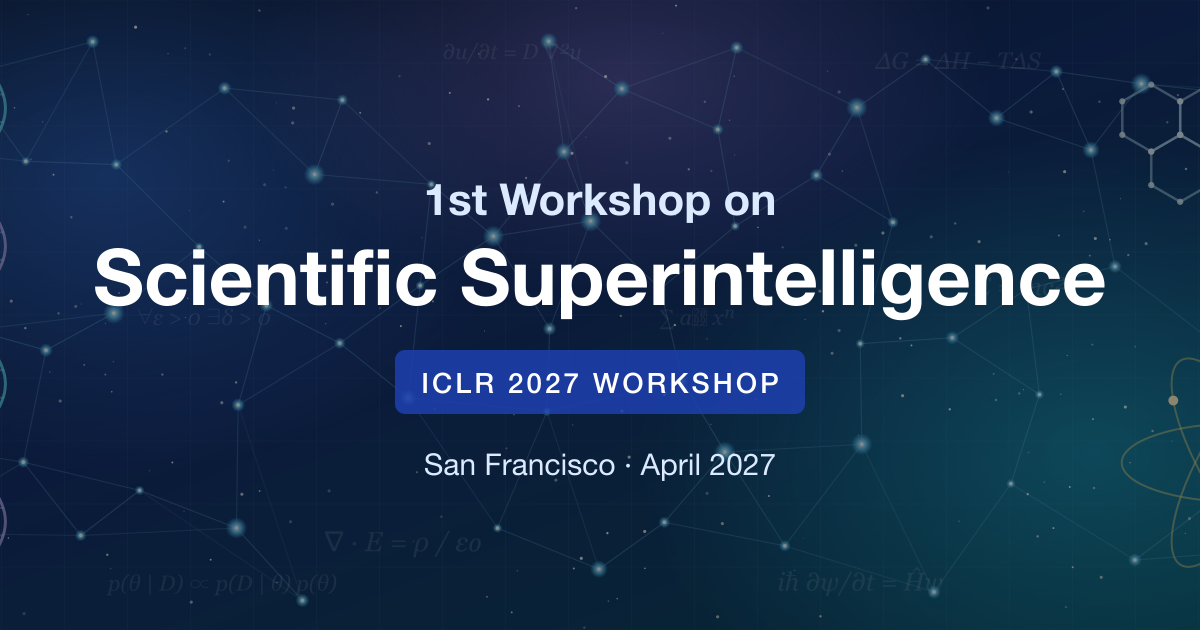
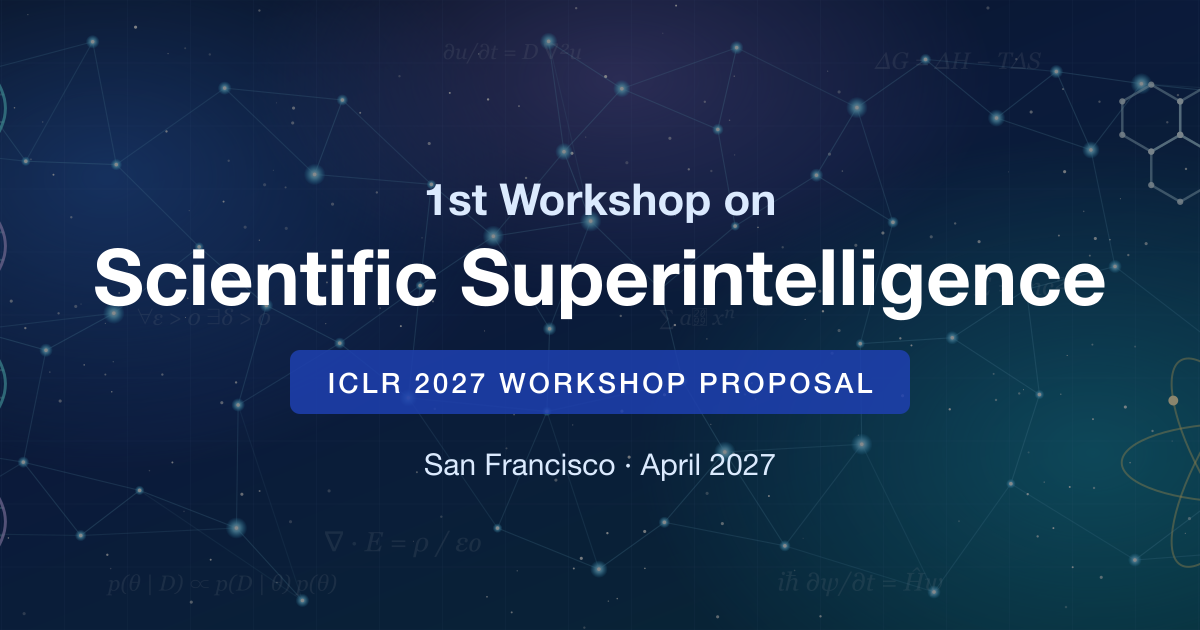
Align the site with the workshop proposal
Wording now follows the proposal draft (Oct 8, 2026):
- Hero: badge "ICLR 2027 Workshop Proposal"; tagline is the
  proposal's central question (also og:description, og image)
- CFP intro from A.1 and the audience in section 5
- Key dates from Appendix B: CFP launch Dec 7, deadline Feb 1,
  decisions Feb 22, accepted papers public Feb 25
- Tracks from A.1: Research track (6 pages) and tiny/short paper
  track (2-4 pages); awards removed (section 7 promises none)
- New guideline items from the proposal: review process, evidence
  expectations, prior work/non-archival, conflicts of interest,
  AI participation policy (A.3), presentation (6 orals, 10 lightning
  slots), evidence clinic, online access (section 8)
- Scope: proposal heading for the discovery loop, "methodological
  question", "Discovery and validation question" labels
- Panel question and "proposed panelist roster" wording (section 3.2);
  sponsorship and schedule-placeholder text from sections 7 and 2;
  commented schedule template replaced by the proposal's schedule

Invited speakers are unchanged for now.

Changed region(s): [[0.2158, 0.5429, 0.7708, 0.6635]]

diff --git a/index.html b/index.html
@@ -8,13 +8,13 @@
     <meta name="theme-color" content="#2c5282">
     <meta property="og:type" content="website">
     <meta property="og:title" content="1st Workshop on Scientific Superintelligence @ ICLR 2027">
-    <meta property="og:description" content="A proposed ICLR 2027 workshop asking what it would take for AI to exceed the best human scientists, and how we would know.">
+    <meta property="og:description" content="A proposed ICLR 2027 workshop asking how AI discovery systems can generate new, independently verifiable scientific knowledge and improve their ability to discover it.">
     <meta property="og:url" content="https://ai4ssi.github.io/ssi-2027/">
     <meta property="og:site_name" content="SSI@ICLR2027">
     <meta property="og:image" content="https://ai4ssi.github.io/ssi-2027/images/Basic/og-image.png">
     <meta property="og:image:width" content="1200">
     <meta property="og:image:height" content="630">
-    <meta property="og:image:alt" content="1st Workshop on Scientific Superintelligence, ICLR 2027 Workshop, San Francisco, April 2027">
+    <meta property="og:image:alt" content="1st Workshop on Scientific Superintelligence, ICLR 2027 Workshop Proposal, San Francisco, April 2027">
     <meta name="twitter:card" content="summary_large_image">
     <link rel="canonical" href="https://ai4ssi.github.io/ssi-2027/">
     <title>SSI@ICLR2027 | 1st Workshop on Scientific Superintelligence</title>
@@ -185,12 +185,12 @@
                     <span class="block text-3xl min-[360px]:text-4xl sm:text-6xl">Scientific Superintelligence</span>
                 </h1>
 
-                <div class="bg-blue-800 bg-opacity-70 backdrop-blur-sm px-4 py-4 rounded-lg shadow-xl my-2">
-                    <p class="text-lg sm:text-xl font-medium tracking-wider uppercase">ICLR 2027 Workshop</p>
+                <div class="bg-blue-800 bg-opacity-70 backdrop-blur-sm px-3 sm:px-4 py-3 sm:py-4 rounded-lg shadow-xl my-2 max-w-full">
+                    <p class="text-sm min-[360px]:text-base sm:text-xl font-medium tracking-wide sm:tracking-wider uppercase whitespace-nowrap">ICLR 2027 Workshop Proposal</p>
                 </div>
 
                 <p class="max-w-3xl text-lg sm:text-xl font-light text-blue-50 text-balance" style="text-shadow: 1px 1px 3px rgba(0, 0, 0, 0.7);">
-                    What would it take for AI to exceed the best human scientists, and how would we know?
+                    How can AI discovery systems generate new, independently verifiable scientific knowledge and improve their ability to discover it?
                 </p>
 
                 <p class="text-base sm:text-lg font-medium text-blue-100">
@@ -266,18 +266,18 @@
                     This call is provisional and takes effect if ICLR 2027 accepts the workshop (decisions expected November 29, 2026).
                 </p>
                 <p>
-                    We invite submissions on AI systems that carry out science across the research loop. We value work on how much of the loop such systems close, how they compare with the best human scientists under matched conditions, how to check their claims, and how to deploy them safely. Replications and negative results are welcome. We encourage submissions from machine learning, AI safety, formal methods, lab automation, biology, chemistry, materials science, physics, mathematics, climate science, science policy, and philosophy of science.
+                    We invite submissions on how AI discovery systems can generate new, independently verifiable scientific knowledge and improve their ability to discover it. The call will prioritize ongoing or novel research, including methods, theory, new experiments, replication, negative results, and well-supported perspectives. We welcome submissions from representation learning, generative modeling, RL, and agent researchers; materials scientists, chemists, mathematicians, and physicists; laboratory automation practitioners; and researchers studying scientific evaluation and responsible AI.
                 </p>
 
                 <!-- Key Dates -->
                 <div class="mt-8">
                     <h3 class="text-2xl font-bold text-[#2c5282] border-b-2 border-blue-200 pb-2 mb-4">Key Dates <span class="text-base font-normal text-gray-500">(tentative)</span></h3>
                     <ul class="list-none space-y-2">
-                        <li><span class="font-bold">Submission Open:</span> December 15, 2026</li>
-                        <li><span class="font-bold">Submission Deadline:</span> January 30, 2027</li>
-                        <li><span class="font-bold">Notification of Acceptance:</span> February 24, 2027</li>
-                        <li><span class="font-bold">Camera-Ready Paper Due:</span> March 12, 2027</li>
-                        <li><span class="font-bold">Workshop Date:</span> April 29 or 30, 2027 (to be confirmed by ICLR)</li>
+                        <li><span class="font-bold">CFP Launch and OpenReview Setup:</span> December 7, 2026</li>
+                        <li><span class="font-bold">Submission Deadline (both tracks):</span> February 1, 2027</li>
+                        <li><span class="font-bold">Decisions and Author Notifications:</span> February 22, 2027</li>
+                        <li><span class="font-bold">Accepted Papers Public on OpenReview:</span> February 25, 2027</li>
+                        <li><span class="font-bold">Workshop Date:</span> April 29 or 30, 2027 (conference assignment pending)</li>
                     </ul>
                     <p class="mt-4 text-sm italic">
                         All deadlines are 23:59 <a href="https://www.timeanddate.com/time/zones/aoe" class="text-blue-600 underline hover:text-blue-800">Anywhere on Earth (AoE)</a>.
@@ -295,9 +295,7 @@
                 <!-- Scope -->
                 <div id="scope" class="mt-8">
                     <h3 class="text-2xl font-bold text-[#2c5282] border-b-2 border-blue-200 pb-2 mb-4">Scope</h3>
-                    <p>
-                        The workshop is organized around one discovery loop with multiple forms of evidence:
-                    </p>
+                    <h4 class="text-xl font-semibold text-[#2c5282]">One discovery loop, multiple forms of evidence</h4>
                     <p class="sr-only">Represent, then Propose, then Test, then Verify, then Revise, and repeat.</p>
                     <div class="flex flex-wrap items-center justify-center gap-2 my-6 text-base font-semibold" aria-hidden="true">
                         <span class="inline-flex items-center gap-2 whitespace-nowrap"><span class="px-4 py-1.5 rounded-full bg-sky-100 text-sky-900">Represent</span><span class="text-gray-400">&rarr;</span></span>
@@ -307,7 +305,7 @@
                         <span class="inline-flex items-center gap-2 whitespace-nowrap"><span class="px-4 py-1.5 rounded-full bg-violet-100 text-violet-900">Revise</span><span class="text-gray-400 text-xl leading-none">&#8634;</span></span>
                     </div>
                     <p class="mb-6">
-                        The feedback loop can update a hypothesis, model, representation, experimental protocol, or research tool. Scientific progress depends on whether those updates improve knowledge under a credible validation process. We invite the following applications when they address at least one of the shared <a href="#introduction" class="text-blue-600 underline hover:text-blue-800">key questions</a>:
+                        The feedback loop can update a hypothesis, model, representation, experimental protocol, or research tool. Scientific progress depends on whether those updates improve knowledge under a credible validation process. We invite the following applications when they address at least one shared methodological question (see <a href="#introduction" class="text-blue-600 underline hover:text-blue-800">Key Questions</a>):
                     </p>
                     <div class="grid grid-cols-1 md:grid-cols-2 gap-5 hyphens-manual">
                         <div class="p-6 bg-white border border-gray-200 rounded-xl shadow-md hover:shadow-lg transition duration-300">
@@ -317,7 +315,7 @@
                                 <li>Multimodal evidence</li>
                                 <li>Hypothesis generation and cross-domain transfer</li>
                             </ul>
-                            <p class="mt-3 text-base text-gray-700"><span class="font-semibold text-[#2c5282]">Validation question:</span> <em>What transfers across domains, and what requires domain-specific structure or measurement?</em></p>
+                            <p class="mt-3 text-base text-gray-700"><span class="font-semibold text-[#2c5282]">Discovery and validation question:</span> <em>What transfers across domains, and what requires domain-specific structure or measurement?</em></p>
                         </div>
                         <div class="p-6 bg-white border border-gray-200 rounded-xl shadow-md hover:shadow-lg transition duration-300">
                             <h4 class="text-xl font-semibold text-[#2c5282] border-b border-blue-400 pb-2 mb-3">AI for Materials <span class="text-base font-medium text-gray-500">(AI4Mat)</span></h4>
@@ -326,7 +324,7 @@
                                 <li>Synthesis-aware generation</li>
                                 <li>Hierarchical materials and structure&ndash;property relations</li>
                             </ul>
-                            <p class="mt-3 text-base text-gray-700"><span class="font-semibold text-[#2c5282]">Validation question:</span> <em>Do proposed designs retain their properties under independent simulation, fabrication, and characterization?</em></p>
+                            <p class="mt-3 text-base text-gray-700"><span class="font-semibold text-[#2c5282]">Discovery and validation question:</span> <em>Do proposed designs retain their properties under independent simulation, fabrication, and characterization?</em></p>
                         </div>
                         <div class="p-6 bg-white border border-gray-200 rounded-xl shadow-md hover:shadow-lg transition duration-300">
                             <h4 class="text-xl font-semibold text-[#2c5282] border-b border-blue-400 pb-2 mb-3">AI for Chemistry <span class="text-base font-medium text-gray-500">(AI4Chem)</span></h4>
@@ -335,7 +333,7 @@
                                 <li>Molecular design</li>
                                 <li>Synthesis planning and mechanism inference</li>
                             </ul>
-                            <p class="mt-3 text-base text-gray-700"><span class="font-semibold text-[#2c5282]">Validation question:</span> <em>Can a system propose executable protocols and learn from failures, controls, and repeat measurements?</em></p>
+                            <p class="mt-3 text-base text-gray-700"><span class="font-semibold text-[#2c5282]">Discovery and validation question:</span> <em>Can a system propose executable protocols and learn from failures, controls, and repeat measurements?</em></p>
                         </div>
                         <div class="p-6 bg-white border border-gray-200 rounded-xl shadow-md hover:shadow-lg transition duration-300">
                             <h4 class="text-xl font-semibold text-[#2c5282] border-b border-blue-400 pb-2 mb-3">AI for Mathematics <span class="text-base font-medium text-gray-500">(AI4Math)</span></h4>
@@ -344,7 +342,7 @@
                                 <li>Proof search</li>
                                 <li>Formalization and algorithm discovery</li>
                             </ul>
-                            <p class="mt-3 text-base text-gray-700"><span class="font-semibold text-[#2c5282]">Validation question:</span> <em>Are claims checked by an appropriate proof system or independently verified computation?</em></p>
+                            <p class="mt-3 text-base text-gray-700"><span class="font-semibold text-[#2c5282]">Discovery and validation question:</span> <em>Are claims checked by an appropriate proof system or independently verified computation?</em></p>
                         </div>
                         <div class="p-6 bg-white border border-gray-200 rounded-xl shadow-md hover:shadow-lg transition duration-300">
                             <h4 class="text-xl font-semibold text-[#2c5282] border-b border-blue-400 pb-2 mb-3">AI for Physics <span class="text-base font-medium text-gray-500">(AI4Physics)</span></h4>
@@ -354,7 +352,7 @@
                                 <li>Inverse problems</li>
                                 <li>Experimental control</li>
                             </ul>
-                            <p class="mt-3 text-base text-gray-700"><span class="font-semibold text-[#2c5282]">Validation question:</span> <em>Do results respect physical constraints and survive tests beyond the training regime?</em></p>
+                            <p class="mt-3 text-base text-gray-700"><span class="font-semibold text-[#2c5282]">Discovery and validation question:</span> <em>Do results respect physical constraints and survive tests beyond the training regime?</em></p>
                         </div>
                         <div class="p-6 bg-white border border-gray-200 rounded-xl shadow-md hover:shadow-lg transition duration-300">
                             <h4 class="text-xl font-semibold text-[#2c5282] border-b border-blue-400 pb-2 mb-3">AI for AI Research <span class="text-base font-medium text-gray-500">(AI4AI)</span></h4>
@@ -363,7 +361,7 @@
                                 <li>Architecture and optimizer discovery</li>
                                 <li>Research-tool improvement</li>
                             </ul>
-                            <p class="mt-3 text-base text-gray-700"><span class="font-semibold text-[#2c5282]">Validation question:</span> <em>Do improvements survive held-out evaluations, ablations, and matched compute budgets?</em></p>
+                            <p class="mt-3 text-base text-gray-700"><span class="font-semibold text-[#2c5282]">Discovery and validation question:</span> <em>Do improvements survive held-out evaluations, ablations, and matched compute budgets?</em></p>
                         </div>
                         <div class="p-6 bg-white border border-gray-200 rounded-xl shadow-md hover:shadow-lg transition duration-300 md:col-span-2">
                             <h4 class="text-xl font-semibold text-[#2c5282] border-b border-blue-400 pb-2 mb-3">Self-Driving Labs</h4>
@@ -373,7 +371,7 @@
                                 <li>Instrument APIs</li>
                                 <li>Scheduling and sim-to-real transfer</li>
                             </ul>
-                            <p class="mt-3 text-base text-gray-700"><span class="font-semibold text-[#2c5282]">Validation question:</span> <em>Can planning, execution, measurement, and recovery form an auditable, reproducible loop?</em></p>
+                            <p class="mt-3 text-base text-gray-700"><span class="font-semibold text-[#2c5282]">Discovery and validation question:</span> <em>Can planning, execution, measurement, and recovery form an auditable, reproducible loop?</em></p>
                         </div>
                     </div>
                 </div>
@@ -383,13 +381,13 @@
                     <h3 class="text-2xl font-bold text-[#2c5282] border-b-2 border-blue-200 pb-2 mb-4">Submission Guidelines</h3>
 
                     <h4 class="font-bold">Format:</h4>
-                    <p class="ml-4">All submissions must be a single PDF file. We welcome high-quality original work in the following two tracks. References, appendices, and the AI use statement required by the ICLR 2027 policy do not count toward the page limit, but the main text must be self-contained; reviewers are not required to read beyond it.</p>
+                    <p class="ml-4">All submissions must be a single PDF file. The workshop has two non-archival tracks, submitted through OpenReview. The main text must be self-contained; reviewers are not required to read beyond it.</p>
                     <ul class="list-disc pl-6 space-y-1 ml-8 mt-2">
                         <li>
-                            <span class="font-bold">Full Papers:</span> Up to 9 pages of main text for novel methods, theoretical results, empirical studies, systems, benchmarks, or position papers (including critiques of the SSI framing) on any topic in the scope above.
+                            <span class="font-bold">Research Track:</span> Up to six pages of main text, with references and optional appendices excluded. Appropriate contributions include discovery algorithms, scientific representations, learning theory, evaluation methods, and experimentally grounded systems.
                         </li>
                         <li>
-                            <span class="font-bold">Tiny Papers:</span> Up to 4 pages of main text for early-stage ideas, simple implementations, modest theoretical results, follow-up experiments, negative results, or fresh perspectives on existing work.
+                            <span class="font-bold">Tiny/Short Paper Track:</span> Two to four pages of main text, with references excluded. We welcome a modest but self-contained result, a simple implemented idea, an additional experiment or re-analysis, a failed replication, or a fresh evidence-based perspective. This track shares the February deadline; it does not introduce a later acceptance round.
                         </li>
                     </ul>
 
@@ -398,15 +396,21 @@
                             ICLR 2027 Guidelines
                         </div>
                         <p class="text-gray-700 leading-relaxed text-sm italic">
-                            In line with the <a href="https://iclr.cc/Conferences/2027/WorkshopGuidelines" class="text-blue-600 underline hover:text-blue-800">ICLR 2027 workshop guidelines</a>, our Tiny Papers track prioritizes &ldquo;less-than-full-conference&rdquo; contributions and aims to broaden participation, especially from early-career researchers and authors outside the usual ML publication circuit. AI assistance is permitted, but Tiny Papers must be <strong>primarily human-authored</strong>; AI-generated papers are not allowed. Authors of accepted papers may apply for ICLR 2027 Financial Assistance through a separate application; details will be posted on <a href="https://iclr.cc/Conferences/2027" class="text-blue-600 underline hover:text-blue-800">iclr.cc/Conferences/2027</a>.
+                            In line with the <a href="https://iclr.cc/Conferences/2027/WorkshopGuidelines" class="text-blue-600 underline hover:text-blue-800">ICLR 2027 workshop guidelines</a>, our tiny/short paper track prioritizes &ldquo;less-than-full-conference&rdquo; contributions and aims to broaden participation, especially from early-career researchers and authors outside the usual ML publication circuit. AI assistance is permitted, but tiny/short papers must be <strong>primarily human-authored</strong> and cannot be AI-generated. Authors of accepted papers may apply for ICLR 2027 Financial Assistance through a separate application; details will be posted on <a href="https://iclr.cc/Conferences/2027" class="text-blue-600 underline hover:text-blue-800">iclr.cc/Conferences/2027</a>.
                         </p>
                     </div>
 
                     <h4 class="font-bold mt-4">Style file:</h4>
-                    <p class="ml-4">Please format your submission using the official <a href="https://github.com/ICLR/Master-Template/tree/master/iclr2027" class="text-blue-600 hover:text-blue-800 underline">ICLR 2027 LaTeX template</a>. Include references and supplementary material in the same PDF. Please change the template&rsquo;s running header, which refers to the main conference, to refer to the workshop (e.g., &ldquo;Under review at the SSI Workshop at ICLR 2027&rdquo;). Submissions that alter the ICLR style (e.g., by decreasing margins or font sizes) or exceed the page limits may be rejected without review.</p>
+                    <p class="ml-4">Both tracks will use the official <a href="https://github.com/ICLR/Master-Template/tree/master/iclr2027" class="text-blue-600 hover:text-blue-800 underline">ICLR 2027 LaTeX template</a> and anonymous review. Include references and supplementary material in the same PDF. Please change the template&rsquo;s running header, which refers to the main conference, to refer to the workshop (e.g., &ldquo;Under review at the SSI Workshop at ICLR 2027&rdquo;). Submissions that alter the ICLR style (e.g., by decreasing margins or font sizes) or exceed the page limits may be rejected without review.</p>
 
-                    <h4 class="font-bold mt-4">Dual-submission and non-archival policy:</h4>
-                    <p class="ml-4">We welcome ongoing and unpublished work. We will also consider papers that are under review elsewhere, provided this does not violate the dual-submission or anonymity policies of those venues. Since the workshop is meant to showcase new work, papers already accepted or published at a major ML venue (including the ICLR 2027 main conference) should not be submitted. The workshop is <strong>non-archival</strong> and will not have formal proceedings; accepted papers can be subsequently or concurrently submitted to other venues.</p>
+                    <h4 class="font-bold mt-4">Review process:</h4>
+                    <p class="ml-4">Every submission will receive at least two human reviews, with a third review or independent adjudication where needed. Reviewers will assess scientific relevance, soundness, clarity of claims, adequacy of validation, novelty relative to disclosed prior work, and value for discussion. Short papers will be judged against their stated scope.</p>
+
+                    <h4 class="font-bold mt-4">Evidence expectations:</h4>
+                    <p class="ml-4">Wet-lab access and large compute budgets will not be prerequisites: a careful analysis, formal result, or openly reproducible small-scale study can make a strong contribution. For empirical discovery claims we will request appropriate baselines, uncertainty, provenance, resource costs, and the extent of human intervention. Artifacts will be encouraged where release is feasible. We will encourage release of unsuccessful trials and limitations to make selective reporting visible. Work involving experiments should describe relevant oversight and operating constraints.</p>
+
+                    <h4 class="font-bold mt-4">Prior work and non-archival policy:</h4>
+                    <p class="ml-4">Previously published work may provide context, but a submission must clearly identify new content; the workshop will not primarily re-present papers from the ICLR main track or other ML conferences. Acceptance will not constitute an archival proceedings publication. Accepted papers will remain publicly accessible on OpenReview and be listed on the workshop website. Authors must check the policies of any concurrent venue.</p>
 
                     <h4 class="font-bold mt-4">Visibility:</h4>
                     <p class="ml-4">Submissions and reviews will not be public. Only accepted papers will be made public on OpenReview.</p>
@@ -414,14 +418,21 @@
                     <h4 class="font-bold mt-4">Double-blind reviewing:</h4>
                     <p class="ml-4">All submissions must be anonymized and may not contain any identifying information that violates the double-blind reviewing policy. This applies to supplementary and linked material as well, including code; if you link to external material, you are responsible for ensuring anonymous browsing. Please do not include acknowledgements at submission time, and cite your own prior work in the third person. Papers that violate this policy may be rejected without review.</p>
 
-                    <h4 class="font-bold mt-4">Use of AI tools:</h4>
-                    <p class="ml-4">SSI@ICLR2027 adopts the ICLR 2027 AI policies for <a href="https://iclr.cc/Conferences/2027/AIPolicyForAuthors" class="text-blue-600 hover:text-blue-800 underline">authors</a> and <a href="https://iclr.cc/Conferences/2027/AIPolicyForReviewers" class="text-blue-600 hover:text-blue-800 underline">reviewers</a>. Authors are fully responsible for the content of their submissions and must disclose their use of AI tools as required by that policy. In both tracks, AI tools may assist, but submissions must be primarily human-authored and AI systems may not be listed as authors. Papers that study AI scientist systems, or that report results produced by them, are very welcome.</p>
+                    <h4 class="font-bold mt-4">Conflicts of interest:</h4>
+                    <p class="ml-4">An organizer will not handle a submission from their own institution or organization, including any part of the same corporation. Coauthorship, advising, collaboration, personal, and financial conflicts will also require recusal. A non-conflicted chair will assign reviewers and make the decision. If all organizers are conflicted, an independent external decision chair will handle the paper. Organizer-authored submissions will receive external handling, and organizers will not present talks at this workshop.</p>
+
+                    <h4 class="font-bold mt-4">AI participation policy:</h4>
+                    <p class="ml-4">The workshop studies AI conducting research, including AI-generated hypotheses, code, proof candidates, and experimental plans. Submissions in both tracks require accountable human authors. <strong>AI will not serve as a primary author, peer reviewer, or decision maker.</strong> Tiny/short papers must be primarily human-authored and cannot be AI-generated; AI assistance is permitted. All authors will disclose substantive AI use and how outputs were checked, following the <a href="https://iclr.cc/Conferences/2027/AIPolicyForAuthors" class="text-blue-600 hover:text-blue-800 underline">ICLR 2027 author guidance</a>.</p>
+                    <p class="ml-4 mt-2">Reviewers must write their own substantive assessments. Any permitted AI assistance in editing reviews must follow the <a href="https://iclr.cc/Conferences/2027/AIPolicyForReviewers" class="text-blue-600 hover:text-blue-800 underline">ICLR disclosure requirements</a>, including preservation of the original assessment and model interactions. Confidential submissions may not be entered into external AI services without appropriate permission and confidentiality protections. Research on AI-assisted review can be presented as research, but will not replace the workshop&rsquo;s human review process.</p>
 
                     <h4 class="font-bold mt-4">Presentation:</h4>
-                    <p class="ml-4">ICLR 2027 workshops are held in person. All accepted papers will be presented as posters, and a selection will be invited for oral or spotlight talks. At least one author of each accepted paper is expected to attend; if no author can travel (e.g., due to visa issues), we will accommodate the paper with a pre-recorded video and a displayed poster.</p>
+                    <p class="ml-4">ICLR 2027 workshops are held in person. All accepted contributions receive a poster slot; six receive orals and ten receive lightning slots. Selections will cover domains, methods, and career stages, with at least two lightning slots reserved for tiny/short papers, subject to suitable submissions. For exceptional visa or other constraints, we will offer a poster proxy and a short prerecorded presentation on the website.</p>
 
-                    <h4 class="font-bold mt-4">Oral and Best Paper Awards:</h4>
-                    <p class="ml-4">We plan to select several papers for contributed oral talks and a set of Tiny Papers for short spotlight talks. We will present a Best Paper Award, a Best Tiny Paper Award, and a Best Poster Award decided by on-site voting.</p>
+                    <h4 class="font-bold mt-4">Evidence clinic:</h4>
+                    <p class="ml-4">Authors will volunteer a brief claim, supporting evidence, and an unresolved failure mode. An ML researcher and a domain scientist will help the audience design a falsification or replication test. This is a discussion of submitted evidence, not a live laboratory experiment.</p>
+
+                    <h4 class="font-bold mt-4">Online access:</h4>
+                    <p class="ml-4">Accepted papers, optional posters, captioned prerecorded videos, and discussion notes will be available online. An asynchronous question form will support contributions from those unable to attend. We will request permission and conference support to record invited talks; if recording is unavailable, we will publish consenting speakers&rsquo; slides and written summaries.</p>
 
                     <h4 class="font-bold mt-4">Contact:</h4>
                     <!-- TODO: replace with the workshop's contact email -->
@@ -440,19 +451,19 @@
                     <span class="expand-hint text-lg text-gray-500 font-normal">(click to expand)</span>
                 </summary>
                 <div class="text-gray-700 mt-4 text-center">
-                    <p>Accepted papers will be listed here after the review period (by February 26, 2027).</p>
+                    <p>Accepted papers will be listed here after the review period (by February 25, 2027).</p>
                     <!--
                     Replace the <p> above with a list, one <li> per paper:
                     <ul class="list-none space-y-4 text-left">
                     <li class="border-b border-gray-200 pb-3">
                         <div><a href="https://openreview.net/forum?id=XXXX" target="_blank" rel="noopener noreferrer" class="font-semibold text-blue-700 hover:text-blue-900 hover:underline">Paper Title</a>
                         <span class="inline-block rounded-full px-2.5 py-0.5 ml-1.5 text-xs font-bold bg-red-100 text-red-800 border border-red-300">Oral</span>
-                        <span class="inline-block rounded-full px-2.5 py-0.5 ml-1.5 text-xs font-semibold bg-slate-200 text-slate-700 border border-slate-300">Full Paper</span></div>
+                        <span class="inline-block rounded-full px-2.5 py-0.5 ml-1.5 text-xs font-semibold bg-slate-200 text-slate-700 border border-slate-300">Research Track</span></div>
                         <span class="text-sm text-gray-600">Author One, Author Two</span>
                     </li>
                     </ul>
-                    Track badge for Tiny Papers:
-                    <span class="inline-block rounded-full px-2.5 py-0.5 ml-1.5 text-xs font-semibold bg-sky-100 text-sky-800 border border-sky-300">Tiny Paper</span>
+                    Track badge for tiny/short papers:
+                    <span class="inline-block rounded-full px-2.5 py-0.5 ml-1.5 text-xs font-semibold bg-sky-100 text-sky-800 border border-sky-300">Tiny/Short Paper</span>
                     -->
                 </div>
             </details>
@@ -489,83 +500,74 @@
             <h2 class="text-3xl font-extrabold text-center text-[#2c5282] mb-8">Schedule</h2>
             <div class="max-w-2xl mx-auto text-center p-8 bg-gray-50 border border-dashed border-gray-300 rounded-xl">
                 <p class="text-lg font-semibold text-gray-700">To Be Announced</p>
-                <p class="mt-2 text-gray-500">The detailed schedule will be posted closer to the workshop. The workshop will be a full-day, in-person event with invited talks, contributed talks, Tiny Paper spotlights, poster sessions, a panel discussion, an open-problems session, and dedicated discussion time.</p>
+                <p class="mt-2 text-gray-500">The detailed schedule will be posted closer to the workshop. The workshop will be a single-day, single-track, in-person event with four invited talks, two contributed oral sessions, a poster lightning session including tiny/short papers, two poster sessions, an evidence clinic, a panel, and cross-domain working groups.</p>
             </div>
 
             <!--
-            Schedule table template (restore and edit when the program is ready; remove the placeholder above).
+            Schedule table template from the proposal (section 2). Restore it and remove the placeholder above when the program is final.
             <p class="text-center text-gray-500 italic mb-8">This is the tentative schedule of the workshop. All times are in local time (PDT).</p>
             <div class="overflow-x-auto rounded-lg shadow-lg">
                 <table class="min-w-full divide-y divide-gray-200">
                     <tbody class="bg-white divide-y divide-gray-200">
                         <tr class="bg-gray-50">
-                            <td class="px-4 sm:px-6 py-4 whitespace-nowrap font-medium text-gray-900 w-1/4">8:50 – 9:00</td>
-                            <td class="px-4 sm:px-6 py-4 text-gray-700">Opening Remarks</td>
+                            <td class="px-4 sm:px-6 py-4 whitespace-nowrap font-medium text-gray-900 w-1/4">09:00 – 09:10</td>
+                            <td class="px-4 sm:px-6 py-4 text-gray-700">Organizer introduction: scope, definitions, and questions for the day.</td>
                         </tr>
                         <tr>
-                            <td class="px-4 sm:px-6 py-4 whitespace-nowrap font-medium text-gray-900">9:00 – 9:30</td>
-                            <td class="px-4 sm:px-6 py-4 text-gray-700">Invited Talk 1</td>
+                            <td class="px-4 sm:px-6 py-4 whitespace-nowrap font-medium text-gray-900 w-1/4">09:10 – 09:40</td>
+                            <td class="px-4 sm:px-6 py-4 text-gray-700">Invited talk 1: Representations and agents for scientific discovery (20 min + 10 min discussion).</td>
                         </tr>
                         <tr>
-                            <td class="px-4 sm:px-6 py-4 whitespace-nowrap font-medium text-gray-900">9:30 – 10:00</td>
-                            <td class="px-4 sm:px-6 py-4 text-gray-700">Invited Talk 2</td>
+                            <td class="px-4 sm:px-6 py-4 whitespace-nowrap font-medium text-gray-900 w-1/4">09:40 – 10:10</td>
+                            <td class="px-4 sm:px-6 py-4 text-gray-700">Invited talk 2: Closing the loop in materials, chemistry, and self-driving labs (20 + 10 min).</td>
+                        </tr>
+                        <tr>
+                            <td class="px-4 sm:px-6 py-4 whitespace-nowrap font-medium text-gray-900 w-1/4">10:10 – 10:40</td>
+                            <td class="px-4 sm:px-6 py-4 text-gray-700">Contributed oral session I: three talks (7 min + 3 min questions each).</td>
                         </tr>
                         <tr class="bg-blue-100">
-                            <td class="px-4 sm:px-6 py-4 whitespace-nowrap font-medium text-blue-800">10:00 – 10:30</td>
-                            <td class="px-4 sm:px-6 py-4 text-blue-800 font-semibold">Coffee Break</td>
+                            <td class="px-4 sm:px-6 py-4 whitespace-nowrap font-medium text-blue-800 w-1/4">10:40 – 11:10</td>
+                            <td class="px-4 sm:px-6 py-4 text-blue-800 font-semibold">Coffee break and poster session I.</td>
                         </tr>
                         <tr>
-                            <td class="px-4 sm:px-6 py-4 whitespace-nowrap font-medium text-gray-900">10:30 – 11:15</td>
-                            <td class="px-4 sm:px-6 py-4 text-gray-700">
-                                Contributed Oral Presentations<br>
-                                <span class="text-sm italic">(3 talks, 15 min each including Q&amp;A)</span>
-                            </td>
-                        </tr>
-                        <tr>
-                            <td class="px-4 sm:px-6 py-4 whitespace-nowrap font-medium text-gray-900">11:15 – 11:45</td>
-                            <td class="px-4 sm:px-6 py-4 text-gray-700">Invited Talk 3</td>
-                        </tr>
-                        <tr class="bg-green-50">
-                            <td class="px-4 sm:px-6 py-4 whitespace-nowrap font-medium text-green-800">11:45 – 12:30</td>
-                            <td class="px-4 sm:px-6 py-4 text-green-800 font-semibold">Poster Session I</td>
-                        </tr>
-                        <tr class="bg-blue-50">
-                            <td class="px-4 sm:px-6 py-4 whitespace-nowrap font-medium text-blue-800">12:30 – 13:30</td>
-                            <td class="px-4 sm:px-6 py-4 text-blue-800 font-semibold">Lunch Break</td>
-                        </tr>
-                        <tr class="bg-gray-50">
-                            <td class="px-4 sm:px-6 py-4 whitespace-nowrap font-medium text-gray-900">13:30 – 14:00</td>
-                            <td class="px-4 sm:px-6 py-4 text-gray-700">Invited Talk 4</td>
-                        </tr>
-                        <tr>
-                            <td class="px-4 sm:px-6 py-4 whitespace-nowrap font-medium text-gray-900">14:00 – 14:30</td>
-                            <td class="px-4 sm:px-6 py-4 text-gray-700">Invited Talk 5</td>
-                        </tr>
-                        <tr>
-                            <td class="px-4 sm:px-6 py-4 whitespace-nowrap font-medium text-gray-900">14:30 – 15:00</td>
-                            <td class="px-4 sm:px-6 py-4 text-gray-700">
-                                Tiny Paper Spotlights<br>
-                                <span class="text-sm italic">(6 talks, 5 min each)</span>
-                            </td>
-                        </tr>
-                        <tr class="bg-blue-100">
-                            <td class="px-4 sm:px-6 py-4 whitespace-nowrap font-medium text-blue-800">15:00 – 15:30</td>
-                            <td class="px-4 sm:px-6 py-4 text-blue-800 font-semibold">Coffee Break</td>
+                            <td class="px-4 sm:px-6 py-4 whitespace-nowrap font-medium text-gray-900 w-1/4">11:10 – 11:30</td>
+                            <td class="px-4 sm:px-6 py-4 text-gray-700">Poster lightning session: ten two-minute presentations, including tiny/short papers.</td>
                         </tr>
                         <tr class="bg-amber-50">
-                            <td class="px-4 sm:px-6 py-4 whitespace-nowrap font-medium text-amber-800">15:30 – 16:30</td>
-                            <td class="px-4 sm:px-6 py-4 text-amber-800">
-                                <span class="font-semibold">Panel Discussion</span><br>
-                                <span class="text-sm italic">Topic to be announced</span>
-                            </td>
+                            <td class="px-4 sm:px-6 py-4 whitespace-nowrap font-medium text-amber-800 w-1/4">11:30 – 12:15</td>
+                            <td class="px-4 sm:px-6 py-4 text-amber-800 font-semibold">Evidence clinic: examine three discovery claims and design their decisive tests.</td>
                         </tr>
-                        <tr class="bg-green-50">
-                            <td class="px-4 sm:px-6 py-4 whitespace-nowrap font-medium text-green-800">16:30 – 17:20</td>
-                            <td class="px-4 sm:px-6 py-4 text-green-800 font-semibold">Poster Session II</td>
+                        <tr class="bg-blue-50">
+                            <td class="px-4 sm:px-6 py-4 whitespace-nowrap font-medium text-blue-800 w-1/4">12:15 – 13:30</td>
+                            <td class="px-4 sm:px-6 py-4 text-blue-800 font-semibold">Lunch and unstructured exchange.</td>
                         </tr>
                         <tr>
-                            <td class="px-4 sm:px-6 py-4 whitespace-nowrap font-medium text-gray-900">17:20 – 17:30</td>
-                            <td class="px-4 sm:px-6 py-4 text-gray-700">Best Paper Awards &amp; Closing Remarks</td>
+                            <td class="px-4 sm:px-6 py-4 whitespace-nowrap font-medium text-gray-900 w-1/4">13:30 – 14:00</td>
+                            <td class="px-4 sm:px-6 py-4 text-gray-700">Invited talk 3: Mathematical reasoning, proof, and scientific verification (20 + 10 min).</td>
+                        </tr>
+                        <tr>
+                            <td class="px-4 sm:px-6 py-4 whitespace-nowrap font-medium text-gray-900 w-1/4">14:00 – 14:30</td>
+                            <td class="px-4 sm:px-6 py-4 text-gray-700">Invited talk 4: AI4AI and recursive improvement of research tools (20 + 10 min).</td>
+                        </tr>
+                        <tr>
+                            <td class="px-4 sm:px-6 py-4 whitespace-nowrap font-medium text-gray-900 w-1/4">14:30 – 15:00</td>
+                            <td class="px-4 sm:px-6 py-4 text-gray-700">Contributed oral session II: three talks (7 + 3 min each).</td>
+                        </tr>
+                        <tr class="bg-blue-100">
+                            <td class="px-4 sm:px-6 py-4 whitespace-nowrap font-medium text-blue-800 w-1/4">15:00 – 15:30</td>
+                            <td class="px-4 sm:px-6 py-4 text-blue-800 font-semibold">Coffee break and poster session II.</td>
+                        </tr>
+                        <tr class="bg-amber-50">
+                            <td class="px-4 sm:px-6 py-4 whitespace-nowrap font-medium text-amber-800 w-1/4">15:30 – 16:15</td>
+                            <td class="px-4 sm:px-6 py-4 text-amber-800 font-semibold">Panel: What evidence would justify scientific superintelligence?</td>
+                        </tr>
+                        <tr>
+                            <td class="px-4 sm:px-6 py-4 whitespace-nowrap font-medium text-gray-900 w-1/4">16:15 – 16:50</td>
+                            <td class="px-4 sm:px-6 py-4 text-gray-700">Cross-domain working groups: draft benchmark concepts and evidence requirements.</td>
+                        </tr>
+                        <tr>
+                            <td class="px-4 sm:px-6 py-4 whitespace-nowrap font-medium text-gray-900 w-1/4">16:50 – 17:00</td>
+                            <td class="px-4 sm:px-6 py-4 text-gray-700">Group reports and next steps; organizer closing remarks.</td>
                         </tr>
                     </tbody>
                 </table>
@@ -635,7 +637,7 @@
     <section id="panelists" class="section-container py-12 bg-white">
         <div class="container mx-auto px-4">
             <h2 class="text-3xl font-extrabold text-center text-[#2c5282] mb-3">Panelists</h2>
-            <p class="text-center text-gray-500 italic mb-10 text-balance">The panel topic will be announced soon.</p>
+            <p class="text-center text-gray-600 mb-10 text-balance">The panel will address <em>What evidence would justify scientific superintelligence?</em> The proposed panelist roster is:</p>
 
             <!--
             To add a panelist: put a square photo in images/Panelists/ and replace one placeholder card below.
@@ -792,7 +794,7 @@
         <div class="container mx-auto px-4">
             <h2 class="text-3xl font-extrabold text-center text-[#2c5282] mb-6">Sponsors</h2>
             <p class="text-center text-gray-600 max-w-2xl mx-auto">
-                Interested in supporting SSI@ICLR2027 (e.g., travel awards for students and early-career researchers, or best paper awards)? Please reach out to us at <a href="mailto:ssi.iclr2027@example.com" class="underline font-medium text-[#2c5282]">ssi.iclr2027@example.com</a>.
+                Interested in supporting SSI@ICLR2027? Any secured sponsorship will prioritize participation support for under-resourced contributors using transparent criteria; the core program will operate without sponsorship. Please reach out to us at <a href="mailto:ssi.iclr2027@example.com" class="underline font-medium text-[#2c5282]">ssi.iclr2027@example.com</a>.
             </p>
             <!--
             Sponsor card template:
